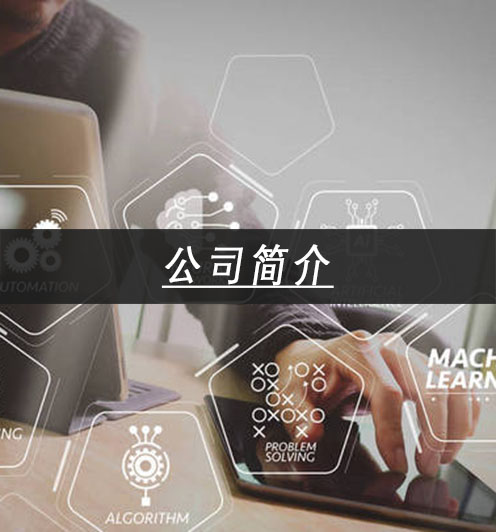
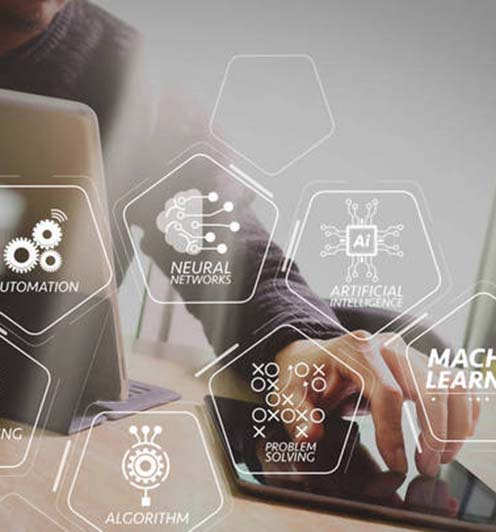
visuaWide

Changed region(s): [[0.0, 0.4211, 1.0, 0.5714]]

diff --git a/css/index.css b/css/index.css
@@ -454,31 +454,22 @@
 		display: inline;
 	}
 
-	.move-about {
-		width: 100%;
-		height: 5rem;
-		text-align: center;
-		padding-top: 2%;
-		color: #fff;
-		background-color: #222222;
-	}
-
 	.masked-intro {
 		width: 100%;
-		height: 25rem;
-		padding-top: 5%;
+		height: 20rem;
+		padding-top: 1%;
 		margin-top: -5%;
 		background-color: rgba(0, 0, 0, 0.4);
 	}
 
 	.move-intro {
 		width: 100%;
-		height: 25rem;
+		height: 20rem;
 		padding-top: 5%;
 		color: #fff;
 		text-align: left;
 		/* background: url(http://img.guangjingshijue.com/gongsijianjie.gif) center; */
-		background: url(img/gongsijianjie.gif) center;
+		background: url(../img/gongsijianjie.jpg) center;
 		background-size: 100% 100%;
 	}
 
@@ -493,25 +484,9 @@
 		text-indent: 2em;
 	}
 
-	.move-brand {
-		width: 100%;
-		height: 20rem;
-		padding-top: 5%;
-		color: #fff;
-		text-align: left;
-		background-color: rgba(85, 85, 85, 0.5);
-		background-size: 100% 100%;
-	}
-
-	.move-brand p {
-		font-size: 1rem;
-		padding: 0 20px;
-		text-indent: 2em;
-	}
-
 	.masked-team {
 		width: 100%;
-		height: 20rem;
+		height: 18rem;
 		padding-top: 10%;
 		margin-top: -10%;
 		background-color: rgba(0, 0, 0, 0.4);
@@ -519,10 +494,11 @@
 
 	.move-team {
 		width: 100%;
-		height: 20rem;
+		height: 18rem;
 		padding-top: 10%;
 		color: #fff;
-		background: url(http://img.guangjingshijue.com/tuandui.jpg) center;
+		/* background: url(http://img.guangjingshijue.com/tuandui.jpg) center; */
+		background: url(../img/tuandui.jpg) center;
 		background-size: 100% 100%;
 	}
 
@@ -714,98 +690,74 @@
 	.about-body {
 		display: none;
 	}
-
+	
 	.move {
 		display: inline;
 	}
-
-	.move-about {
-		width: 100%;
-		height: 5rem;
-		text-align: center;
-		padding-top: 2%;
-		color: #fff;
-		background-color: #222222;
-	}
-
+	
 	.masked-intro {
 		width: 100%;
 		height: 25rem;
-		padding-top: 5%;
+		padding-top: 1%;
 		margin-top: -5%;
 		background-color: rgba(0, 0, 0, 0.4);
 	}
-
+	
 	.move-intro {
 		width: 100%;
 		height: 25rem;
 		padding-top: 5%;
 		color: #fff;
 		text-align: left;
-		background: url(http://img.guangjingshijue.com/gongsijianjie.gif) center;
+		/* background: url(http://img.guangjingshijue.com/gongsijianjie.gif) center; */
+		background: url(../img/gongsijianjie.jpg) center;
 		background-size: 100% 100%;
 	}
-
+	
 	.top-line {
 		width: 10%;
 		border: 2px solid #fff;
 	}
-
+	
 	.move-intro p {
 		font-size: 1rem;
 		padding: 0 20px;
 		text-indent: 2em;
 	}
-
-	.move-brand {
-		width: 100%;
-		height: 20rem;
-		padding-top: 5%;
-		color: #fff;
-		text-align: left;
-		background-color: rgba(85, 85, 85, 0.5);
-		background-size: 100% 100%;
-	}
-
-	.move-brand p {
-		font-size: 1rem;
-		padding: 0 20px;
-		text-indent: 2em;
-	}
-
+	
 	.masked-team {
 		width: 100%;
-		height: 20rem;
+		height: 25rem;
 		padding-top: 10%;
 		margin-top: -10%;
 		background-color: rgba(0, 0, 0, 0.4);
 	}
-
+	
 	.move-team {
 		width: 100%;
-		height: 20rem;
+		height: 25rem;
 		padding-top: 10%;
 		color: #fff;
-		background: url(http://img.guangjingshijue.com/tuandui.jpg) center;
+		/* background: url(http://img.guangjingshijue.com/tuandui.jpg) center; */
+		background: url(../img/tuandui.jpg) center;
 		background-size: 100% 100%;
 	}
-
+	
 	.center-line {
 		width: 10%;
 		margin-left: 44%;
 		border: 2px solid #fff;
 	}
-
+	
 	.move-team h4 {
 		text-align: center;
 	}
-
+	
 	.move-team p {
 		font-size: 1rem;
 		padding: 0 20px;
 		text-indent: 2em;
 	}
-
 	/* 加入我们 */
 	.join-pc {
 		display: none;
@@ -1007,92 +959,69 @@
 	.about-body {
 		display: none;
 	}
-
+	
 	.move {
 		display: inline;
 	}
-
-	.move-about {
-		width: 100%;
-		height: 5rem;
-		text-align: center;
-		padding-top: 2%;
-		color: #fff;
-		background-color: #222222;
-	}
-
+	
 	.masked-intro {
 		width: 100%;
 		height: 25rem;
-		padding-top: 5%;
+		padding-top: 1%;
 		margin-top: -5%;
 		background-color: rgba(0, 0, 0, 0.4);
 	}
-
+	
 	.move-intro {
 		width: 100%;
 		height: 25rem;
 		padding-top: 5%;
 		color: #fff;
 		text-align: left;
-		background: url(http://img.guangjingshijue.com/gongsijianjie.gif) center;
+		/* background: url(http://img.guangjingshijue.com/gongsijianjie.gif) center; */
+		background: url(../img/gongsijianjie.jpg) center;
 		background-size: 100% 100%;
 	}
-
+	
 	.top-line {
 		width: 10%;
 		border: 2px solid #fff;
 	}
-
+	
 	.move-intro p {
 		font-size: 1rem;
 		padding: 0 20px;
 		text-indent: 2em;
 	}
-
-	.move-brand {
-		width: 100%;
-		height: 20rem;
-		padding-top: 5%;
-		color: #fff;
-		text-align: left;
-		background-color: rgba(85, 85, 85, 0.5);
-		background-size: 100% 100%;
-	}
-
-	.move-brand p {
-		font-size: 1rem;
-		padding: 0 20px;
-		text-indent: 2em;
-	}
-
+	
 	.masked-team {
 		width: 100%;
-		height: 20rem;
+		height: 25rem;
 		padding-top: 10%;
 		margin-top: -10%;
 		background-color: rgba(0, 0, 0, 0.4);
 	}
-
+	
 	.move-team {
 		width: 100%;
-		height: 20rem;
+		height: 25rem;
 		padding-top: 10%;
 		color: #fff;
-		background: url(http://img.guangjingshijue.com/tuandui.jpg) center;
+		/* background: url(http://img.guangjingshijue.com/tuandui.jpg) center; */
+		background: url(../img/tuandui.jpg) center;
 		background-size: 100% 100%;
 	}
-
+	
 	.center-line {
 		width: 10%;
 		margin-left: 44%;
 		border: 2px solid #fff;
 	}
-
+	
 	.move-team h4 {
 		text-align: center;
 	}
-
+	
 	.move-team p {
 		font-size: 1rem;
 		padding: 0 20px;

diff --git a/index.html b/index.html
@@ -656,9 +656,6 @@
 				</div>
 				<!-- 关于广景移动端 -->
 				<div class="move">
-					<div class="move-about">
-						<h3>关于广景</h3>
-					</div>
 					<div class="move-intro">
 						<div class="masked-intro">
 							<div class="top-line"></div>
@@ -666,12 +663,6 @@
 							<p> 广景视觉是一家致力于用科技造就美好未来的技术型公司,公司自创立以来,就一直坚持发展人工智能视觉技术,为生产安全保驾护航。</p>
 							<p>作为人工智能视觉技术的创新者,广景视觉所研发的视觉识别技术已经广泛应用于电力、军工、部队、能源、水利、矿山、校园安全等多个领域。也曾为国家电网、中国兵器装备、中石油天然气等国企和大型央企提供技术支持，解决现有及潜在的安全隐患，实现人力优化和安全保障上的的双赢。</p>
 						</div>
-					</div>
-					<div class="move-brand">
-						<div class="top-line"></div>
-						<h4>品牌文化</h4>
-						<h> 专注安全生产</p>
-							<p>开启智能安防新时代</p>
 					</div>
 					<div class="move-team">
 						<div class="masked-team">
